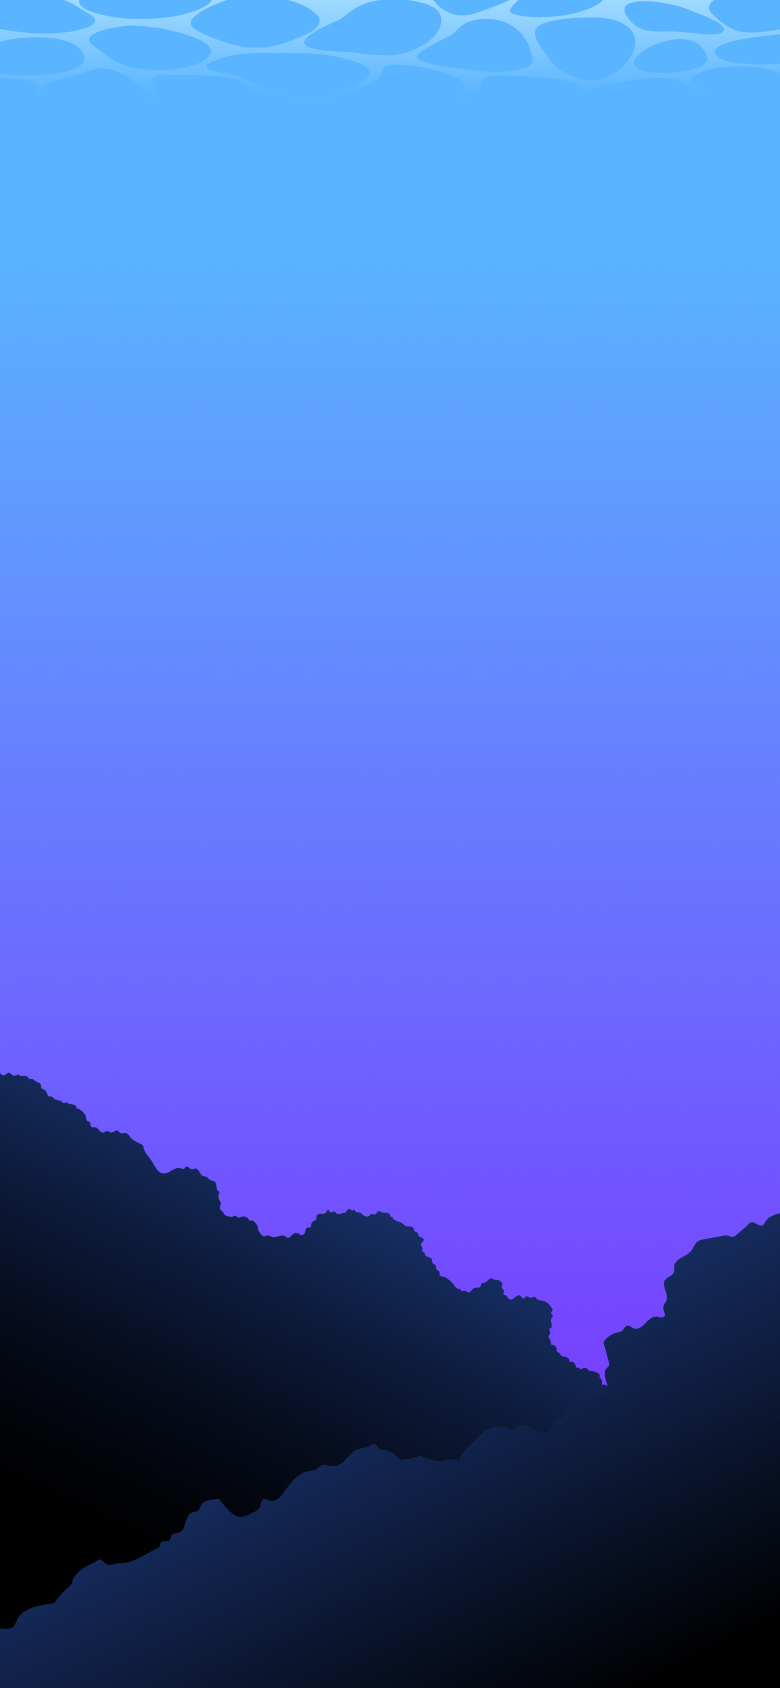
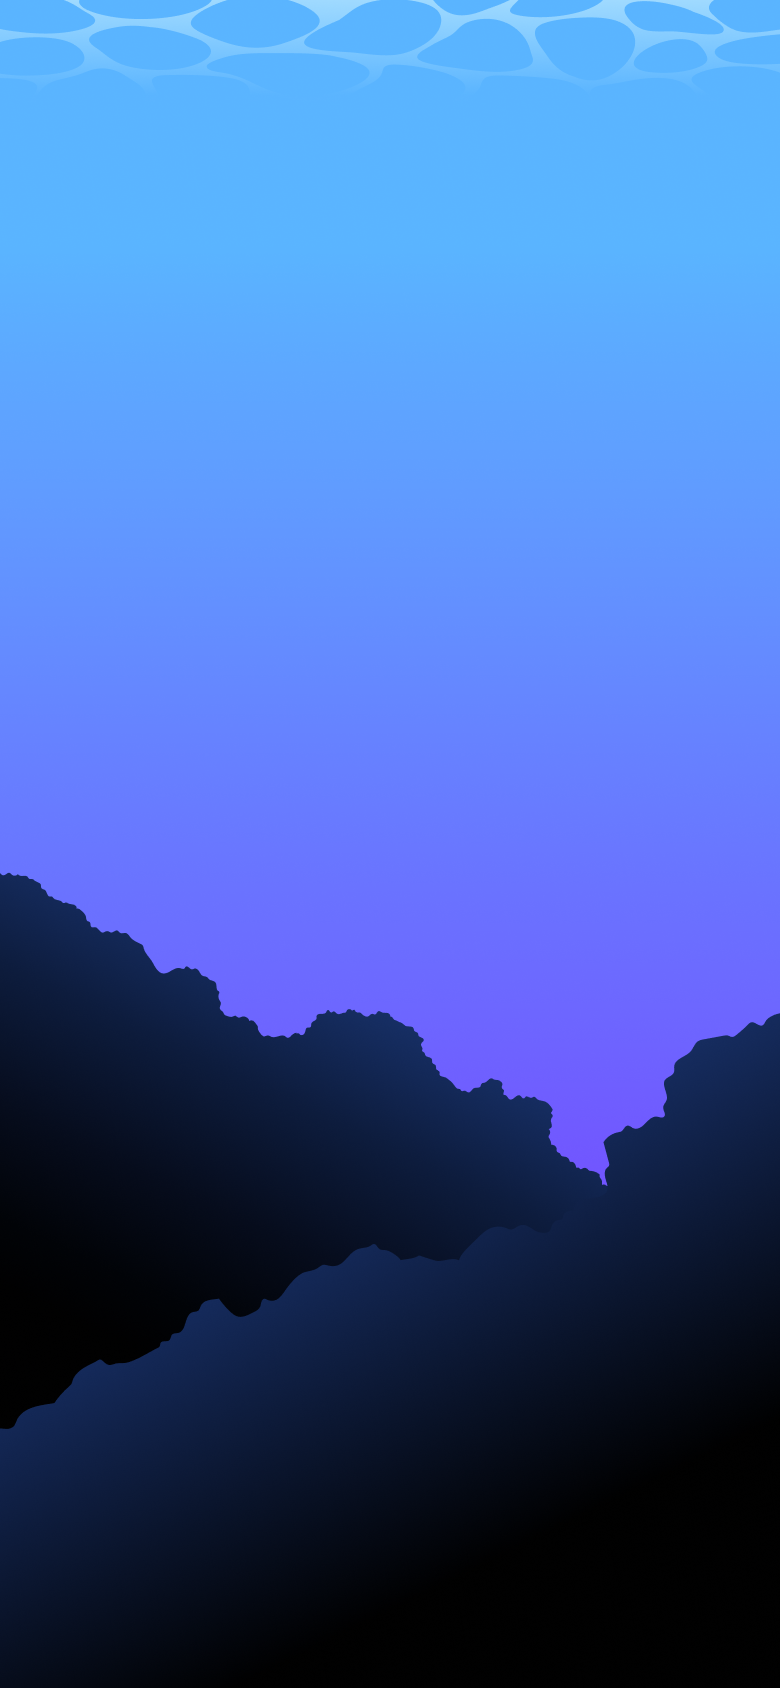
remove: 불필요 애니메이션 제거

diff --git a/app/src/components/MainScreen.tsx b/app/src/components/MainScreen.tsx
@@ -79,6 +79,17 @@ export default function MainScreen({ name, team, stats, plantedTrees, storageCou
   const currentTheme = THEMES[theme];
   const isStarTheme = theme === "night";
 
+  const diffDaysForTagline = lastReadAt
+    ? Math.floor((Date.now() - new Date(lastReadAt).getTime()) / 86400000)
+    : null;
+  const hasReadToday = diffDaysForTagline === 0;
+  const completed260 = totalChapters >= 260;
+  const tagline = completed260
+    ? "축하합니다! 신약 일독을 달성했어요!"
+    : hasReadToday
+    ? `벌써 ${totalChapters}장 읽었어요!`
+    : currentTheme.tagline;
+
   useEffect(() => () => { if (toastTimerRef.current) clearTimeout(toastTimerRef.current); }, []);
 
   useEffect(() => {
@@ -307,8 +318,8 @@ export default function MainScreen({ name, team, stats, plantedTrees, storageCou
                   {team}
                 </span>
               </div>
-              <p className={`text-[16px] font-pretendard ${textMuted}`}>
-                {currentTheme.tagline}
+              <p className={`text-[16px] font-pretendard ${textPrimary}`}>
+                {tagline}
               </p>
             </div>
             <button
@@ -416,32 +427,27 @@ export default function MainScreen({ name, team, stats, plantedTrees, storageCou
                 );
               })()}
 
-              <div className="flex items-end justify-between">
+              <div className="flex items-center justify-between">
                 <button
                   onClick={() => setShowParticipants(true)}
-                  className="flex flex-col gap-1 text-left"
+                  className="flex items-center gap-2 text-left"
                 >
                   <span className={`text-[15px] font-pretendard ${isDarkBg ? "text-white/80" : "text-[#555555]"}`}>참여중</span>
-                  <div className="flex items-center gap-2">
-                    <div className="flex items-center">
-                      {participants.slice(0, MAX_AVATARS).map((p, i) => {
-                        const { bg, fg } = AVATAR_PALETTE[i % AVATAR_PALETTE.length];
-                        return (
-                          <div
-                            key={i}
-                            className="w-[30px] h-[30px] rounded-full flex items-center justify-center text-[12px] font-semibold font-pretendard border-[2px] border-white"
-                            style={{ backgroundColor: bg, color: fg, marginLeft: i > 0 ? -8 : 0, zIndex: MAX_AVATARS - i }}
-                          >
-                            {p.nickname[0]}
-                          </div>
-                        );
-                      })}
-                    </div>
-                    <span className={`text-[18px] font-semibold font-pretendard ${isDarkBg ? "text-white" : "text-[#222222]"}`}>
-                      {stats.participants}명
-                    </span>
-                    <span className={`text-[22px] font-pretendard ${isDarkBg ? "text-white" : "text-[#222222]"}`}>›</span>
+                  <div className="flex items-center">
+                    {participants.slice(0, 3).map((p, i) => {
+                      const { bg, fg } = AVATAR_PALETTE[i % AVATAR_PALETTE.length];
+                      return (
+                        <div
+                          key={i}
+                          className="w-[30px] h-[30px] rounded-full flex items-center justify-center text-[12px] font-semibold font-pretendard border-[2px] border-white"
+                          style={{ backgroundColor: bg, color: fg, marginLeft: i > 0 ? -8 : 0, zIndex: 3 - i }}
+                        >
+                          {p.nickname[0]}
+                        </div>
+                      );
+                    })}
                   </div>
+                  <span className={`text-[22px] font-pretendard ${isDarkBg ? "text-white" : "text-[#222222]"}`}>›</span>
                 </button>
                 <button
                   onClick={() => router.push("/reading", { transitionTypes: ["nav-forward"] })}

diff --git a/app/src/app/register/page.tsx b/app/src/app/register/page.tsx
@@ -202,7 +202,7 @@ export default function RegisterPage() {
                           "w-full px-4 py-3 text-left text-[18px] font-normal font-noto transition-colors",
                           selectedTeam?.id === team.id
                             ? "bg-[#F6FEF8] text-[#46AE78]"
-                            : "text-[#222222] active:bg-[#F5F5F5]"
+                            : "text-[#222222]"
                         )}
                       >
                         {team.name}
@@ -257,7 +257,7 @@ export default function RegisterPage() {
               onClick={() => setStep(2)}
               disabled={!selectedTeam || teams.length === 0}
               className={cn(
-                "w-full h-[54px] rounded-[8px] text-[20px] font-medium transition-colors font-noto",
+                "w-full h-[54px] rounded-[8px] text-[20px] font-medium font-noto",
                 selectedTeam && teams.length > 0
                   ? "bg-[#31C678] text-white"
                   : "bg-[#F5F5F5] text-[#666666]"
@@ -270,7 +270,7 @@ export default function RegisterPage() {
               onClick={handleComplete}
               disabled={!canComplete || isSubmitting}
               className={cn(
-                "flex-1 h-[54px] rounded-[8px] text-[20px] font-medium transition-colors font-noto",
+                "flex-1 h-[54px] rounded-[8px] text-[20px] font-medium font-noto",
                 canComplete && !isSubmitting
                   ? "bg-[#31C678] text-white"
                   : "bg-[#F5F5F5] text-[#666666]"

diff --git a/app/src/app/select-theme/page.tsx b/app/src/app/select-theme/page.tsx
@@ -140,7 +140,7 @@ function SelectThemeContent() {
                 >
                   <div
                     className={cn(
-                      "w-full aspect-square rounded-full transition-all",
+                      "w-full aspect-square rounded-full",
                       isSelected && "ring-[3px] ring-[#19CDCD]",
                     )}
                   >
@@ -168,7 +168,7 @@ function SelectThemeContent() {
             onClick={handleComplete}
             disabled={!selected || isSubmitting}
             className={cn(
-              "w-full h-[54px] rounded-[8px] text-[20px] font-medium transition-colors font-noto",
+              "w-full h-[54px] rounded-[8px] text-[20px] font-medium font-noto",
               selected && !isSubmitting
                 ? "bg-[#31C678] text-white"
                 : "bg-[#F5F5F5] text-[#666666]",